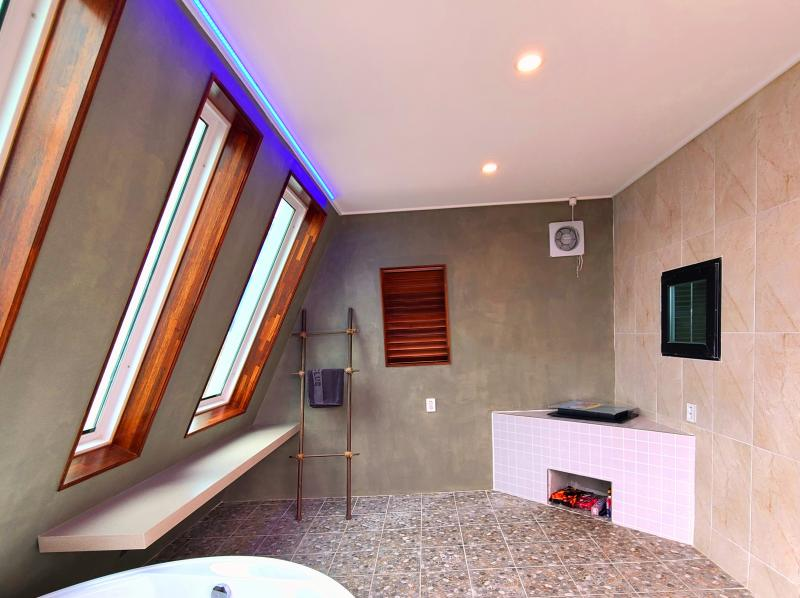
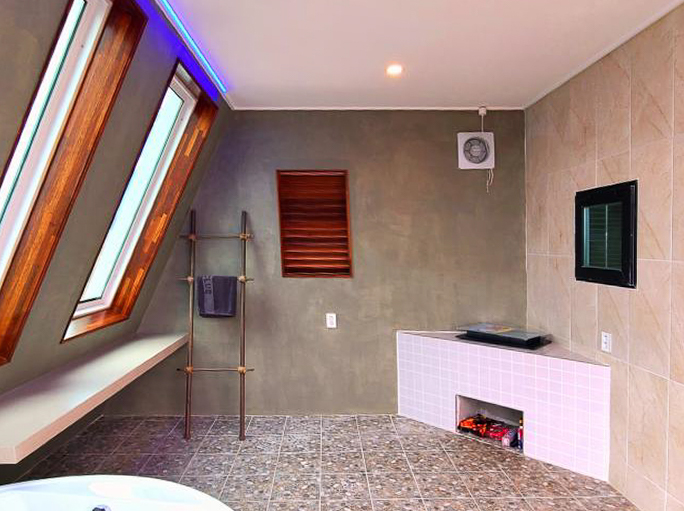
images changed

diff --git a/apps/landing/src/const/room-detail/spa-villa-data.tsx b/apps/landing/src/const/room-detail/spa-villa-data.tsx
@@ -7,12 +7,13 @@ export const spaVillaData: RoomInfo = {
   subtitle: "자쿠지",
   heroImage: "/images/room/spa-villa/hero.jpg",
   mainImages: [
-    "/images/room/spa-villa/main-1.png", 
-    "/images/room/spa-villa/main-2.jpeg", 
+    "/images/room/spa-villa/main-1.jpg", 
+    "/images/room/spa-villa/main-2.jpg", 
     "/images/room/spa-villa/main-3.jpg", 
     "/images/room/spa-villa/main-4.jpg", 
     "/images/room/spa-villa/main-5.jpg", 
     "/images/room/spa-villa/main-6.jpg", 
+    "/images/room/spa-villa/main-7.jpg", 
   ],
   overview: (
     <p>SE CLUB 오션 스파빌라는 다락방이 있는 2층 복층형 단독주택으로, <span className="text-green-900 font-semibold">넓은 테라스</span>와 프라이빗 야외 <span className="text-green-900 font-semibold">자쿠지 스파</span>가 마련된 힐링 공간입니다. 바다와 산, 별빛을 배경으로 온전한 휴식을 즐길 수 있으며, <span className="text-green-900 font-semibold">개별 바비큐 화덕</span>과 <span className="text-green-900 font-semibold">완비된 주방</span>, 세면도구까지 갖추어 편안함과 낭만을 모두 누릴 수 있습니다
